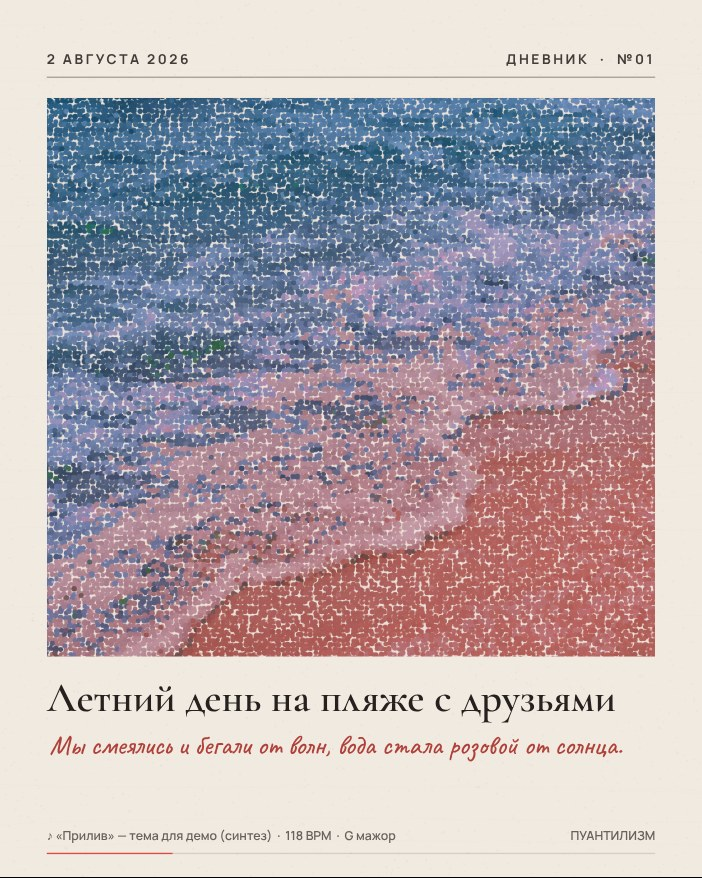
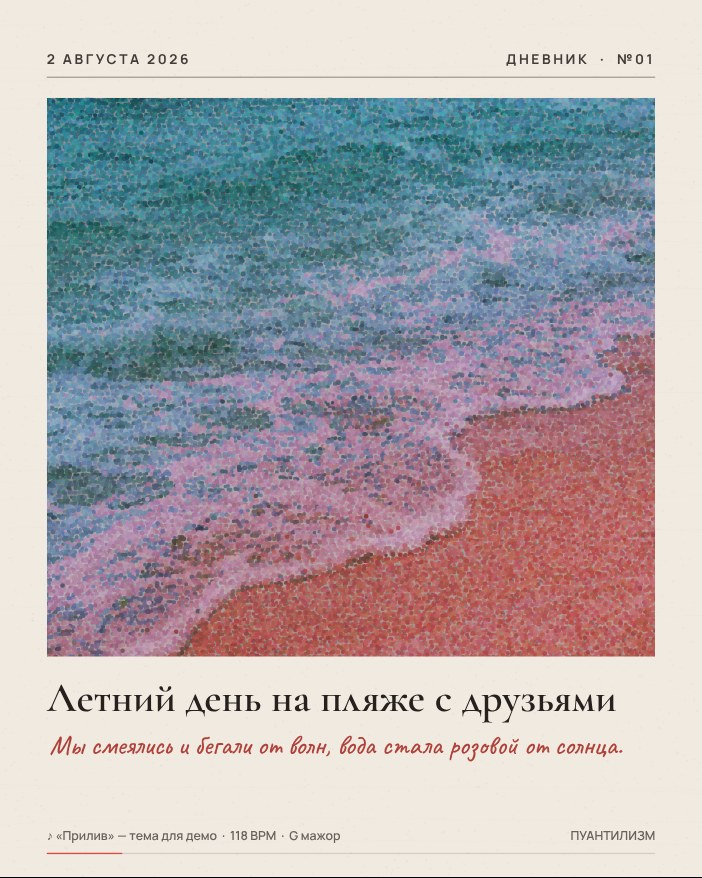
Sharpen titles, cuts and the pointillism and ink pages
A walkthrough with eight realistic days, real photos and the benchmark
songs found weak titles, slow cuts on lively days and a sad ballad painted
as tense geometry. Titles now know occasions (birthday, exam, wedding,
Nauryz, New Year) and local places (aul, dorm, Astana, Almaty, Medeu). A
lively song gets more, shorter shots instead of stretched frames. A fast
drumless run of notes is heard at half tempo (benchmark tempo now 12/12).
More mood words cover praise, alarm and apathy; «волновался» no longer
matches «волны».

Pointillism paints dense vivid dots over a softened colour ground with
complementary dots instead of paper-white flecks. The ink page keeps the
photo's full tonal range with one accent colour in its brightest lights.

Claude-Session: https://claude.ai/code/session_01J6PoPXYJBp2oGjgBzd2Ubg

diff --git a/src/text.js b/src/text.js
@@ -5,6 +5,8 @@ const RU = /\p{Script=Cyrillic}/u;
 
 // [stem, valence -2..2, arousal -2..2, nostalgia 0..2]
 const LEXICON = [
+  // Listed first so they win over shorter stems: «волновался» is nerves, not «волны».
+  ['волнова', -0.3, 1.2], ['волнуюсь', -0.3, 1.2],
   // calm & warm
   ['тепл', 1, -0.4], ['тёпл', 1, -0.4], ['уют', 1.5, -1.2], ['тих', 0.3, -1.6], ['тиш', 0.3, -1.6], ['спокой', 1, -1.6],
   ['мягк', 0.8, -1], ['нежн', 1.2, -0.8], ['обня', 1.5, -0.2], ['любл', 1.5, 0.2], ['любов', 1.5, 0.2], ['какао', 0.9, -0.9],
@@ -31,6 +33,12 @@ const LEXICON = [
   ['когда-то', 0, -0.4, 1.5], ['давно', 0, -0.3, 0.9], ['бабушк', 0.8, -0.6, 1.2], ['дедушк', 0.8, -0.6, 1.2], ['старый', 0, -0.4, 1],
   ['старая', 0, -0.4, 1], ['школ', 0.2, 0.2, 1], ['альбом', 0.3, -0.5, 1.4], ['пластинк', 0.5, -0.4, 1.5], ['кассет', 0.4, -0.2, 1.6],
   ['как раньше', 0, -0.2, 1.4], ['впервые', 0.8, 0.4, 0.6], ['уже не', -0.6, -0.4, 1],
+  // everyday praise and alarm
+  ['лучш', 1.3, 0.4], ['прекрасн', 1.4, 0.2], ['классн', 1.1, 0.5], ['кайф', 1.3, 0.4], ['круто', 1.2, 0.8], ['сюрприз', 1.2, 1],
+  ['торт', 0.8, 0.3], ['обожа', 1.4, 0.3], ['восхит', 1.6, 0.8], ['счастлив', 1.8, 0.8], ['гордост', 1.3, 0.6], ['горд', 1.2, 0.5],
+  ['страшн', -1.3, 1.2], ['страх', -1.3, 1.2], ['ужас', -1.5, 1], ['плохо', -1.2, 0], ['больно', -1.4, 0.5], ['тревог', -1.2, 1],
+  ['обид', -1.3, 0.3], ['бесит', -1.4, 1.3], ['лень', -0.3, -0.8], ['апати', -1.2, -1.2], ['лежал', 0, -0.8], ['потерял', -1.1, 0.3],
+  ['ничего не хотел', -1, -1.2], ['не хотелось', -0.8, -1],
   // English
   ['warm', 1, -0.4], ['cozy', 1.5, -1.2], ['quiet', 0.3, -1.6], ['calm', 1, -1.6], ['soft', 0.8, -1], ['gentle', 1, -1],
   ['love', 1.5, 0.2], ['cocoa', 0.9, -0.9], ['coffee', 0.5, -0.3], ['tea', 0.6, -0.8], ['talk', 0.6, -0.4], ['smil', 1.2, 0.3],
@@ -44,6 +52,9 @@ const LEXICON = [
   ['mist', -0.2, -1.1], ['fog', -0.2, -1.1], ['last', -0.6, -0.2], ['dark', -0.4, -0.3],
   ['remember', 0, -0.3, 1.2], ['childhood', 0.6, -0.2, 1.8], ['again', 0.2, 0, 0.8], ['grandma', 0.8, -0.6, 1.2], ['grandpa', 0.8, -0.6, 1.2],
   ['old', 0, -0.4, 0.9], ['vinyl', 0.5, -0.4, 1.5], ['used to', 0, -0.4, 1.4],
+  ['best', 1.5, 0.5], ['amazing', 1.6, 0.9], ['awesome', 1.5, 0.9], ['wonderful', 1.5, 0.3], ['great', 1.2, 0.4], ['excit', 1.4, 1.2],
+  ['scream', -0.2, 1.4], ['cheer', 1.3, 1], ['scared', -1.3, 1.1], ['anxious', -1.2, 1], ['worried', -1.1, 0.8], ['bored', -0.9, -0.8],
+  ['peaceful', 1.2, -1.4], ['relax', 1.1, -1.2], ['exhausted', -1, -0.6], ['proud', 1.3, 0.6], ['lost', -1, 0.2],
 ];
 
 const SEASONS = [
@@ -62,6 +73,12 @@ const TIMES = [
 
 // stem → [Russian phrase, English phrase]
 const PLACES = [
+  [/^аул/, 'в ауле', 'in the village'], [/^(общаг|общежит)/, 'в общаге', 'at the dorm'], [/^(универ|университет)/, 'в университете', 'at university'],
+  [/^больниц/, 'в больнице', 'at the hospital'], [/^аэропорт/, 'в аэропорту', 'at the airport'], [/^(машин|авто)$|^машине/, 'в машине', 'in the car'],
+  [/^(кинотеатр|кино)$/, 'в кино', 'at the cinema'], [/^музе[ейю]/, 'в музее', 'at the museum'], [/^библиотек/, 'в библиотеке', 'in the library'],
+  [/^стадион/, 'на стадионе', 'at the stadium'], [/^концерт/, 'на концерте', 'at the concert'], [/^(медеу|шымбулак)/, 'на Медеу', 'at Medeu'],
+  [/^астан/, 'в Астане', 'in Astana'], [/^алмат/, 'в Алматы', 'in Almaty'], [/^шымкент/, 'в Шымкенте', 'in Shymkent'],
+  [/^(dorm)/, 'в общаге', 'at the dorm'], [/^(hospital)/, 'в больнице', 'at the hospital'], [/^(airport)/, 'в аэропорту', 'at the airport'],
   [/^парк/, 'в парке', 'in the park'], [/^(мор|моря)/, 'у моря', 'by the sea'], [/^пляж/, 'на пляже', 'on the beach'],
   [/^берег/, 'на берегу', 'on the shore'], [/^офис/, 'в офисе', 'at the office'], [/^поезд/, 'в поезде', 'on the train'],
   [/^(перрон|вокзал|платформ)/, 'на перроне', 'on the platform'], [/^автобус/, 'в автобусе', 'on the bus'],
@@ -89,6 +106,7 @@ const PEOPLE = [
 ];
 
 const DETAILS = [
+  [/^(экзамен|сесси|зачет)/, 'перед экзаменом', 'before the exam'], [/^exam/, 'перед экзаменом', 'before the exam'],
   [/^какао/, 'и какао', 'and cocoa'], [/^коф/, 'и кофе', 'and coffee'], [/^ча[йя]$|^чаем$/, 'и чай', 'and tea'],
   [/^дожд/, 'под дождём', 'in the rain'], [/^(снег|снеж)/, 'под снегом', 'in the snow'], [/^(дедлайн|сдач)/, 'перед сдачей', 'before the deadline'],
   [/^туман/, 'в тумане', 'in the mist'], [/^(закат)/, 'на закате', 'at sunset'], [/^(звёзд|звезд)/, 'под звёздами', 'under the stars'],
@@ -96,6 +114,14 @@ const DETAILS = [
   [/^cocoa/, 'и какао', 'and cocoa'], [/^coffee/, 'и кофе', 'and coffee'], [/^tea$/, 'и чай', 'and tea'], [/^rain/, 'под дождём', 'in the rain'],
   [/^snow/, 'под снегом', 'in the snow'], [/^deadline/, 'перед сдачей', 'before the deadline'], [/^(mist|fog)/, 'в тумане', 'in the mist'],
   [/^sunset/, 'на закате', 'at sunset'], [/^neon/, 'в неоне', 'in neon'],
+];
+
+// Named occasions lead the title instead of the time of day: «День рождения с друзьями».
+const EVENTS = [
+  [/^рождени/, 'День рождения', 'Birthday'], [/^исполнилось$/, 'День рождения', 'Birthday'], [/^(днюх|днюшк)/, 'День рождения', 'Birthday'], [/^birthday/, 'День рождения', 'Birthday'],
+  [/^свадьб/, 'Свадьба', 'Wedding'], [/^wedding/, 'Свадьба', 'Wedding'], [/^выпускн/, 'Выпускной', 'Graduation'], [/^graduation/, 'Выпускной', 'Graduation'],
+  [/^наурыз/, 'Наурыз', 'Nauryz'], [/^nauryz/, 'Наурыз', 'Nauryz'], [/^новогод/, 'Новогодняя ночь', 'New Year’s Eve'], [/^свидани/, 'Свидание', 'A date'],
+  [/^поход/, 'Поход', 'Hike'], [/^hik(e|ing)/, 'Поход', 'Hike'], [/^рыбалк/, 'Рыбалка', 'Fishing'], [/^переезд/, 'Переезд', 'Moving day'],
 ];
 
 const HEAD = {
@@ -179,6 +205,7 @@ export function readText(text, date) {
     place: firstMatch(tokens, PLACES),
     people: firstMatch(tokens, PEOPLE),
     detail: firstMatch(tokens, DETAILS),
+    event: /новый год/.test(lower) ? [null, 'Новый год', 'New Year'] : /new year/.test(lower) ? [null, 'Новый год', 'New Year'] : firstMatch(tokens, EVENTS),
     hits: [...new Set(hits.sort((a, b) => Math.abs(b.valence) + Math.abs(b.arousal) - Math.abs(a.valence) - Math.abs(a.arousal)).map((hit) => hit.word))].slice(0, 6),
     sentences: sentences(text),
     words: tokens.length,
@@ -196,12 +223,13 @@ function fallbackTitle(reading, lang) {
   return lang === 'ru' ? 'День, который хочется помнить' : 'A day worth remembering';
 }
 
-// Titles follow one pattern: [season] time-of-day + place + company + detail, 3–7 words.
+// Titles follow one pattern: occasion or [season] time-of-day, then place, company and a detail; 3–7 words.
 export function titleFor(reading) {
   const ru = reading.lang === 'ru';
   const pieces = [];
   const time = reading.time ?? (reading.place || reading.people ? 'day' : null);
-  if (time) {
+  if (reading.event) pieces.push(ru ? reading.event[1] : reading.event[2]);
+  else if (time) {
     if (ru) {
       const [noun, gender] = HEAD.ru[time];
       pieces.push(reading.seasonFromText ? `${SEASON_ADJ[reading.season][gender]} ${noun.toLowerCase()}` : noun);

diff --git a/src/render.js b/src/render.js
@@ -1,4 +1,5 @@
 // Paints a diary page on a 1080×1350 canvas. Constant frame + a technique chosen by the rules.
+import { hslToRgb, rgbToHsl } from './photo.js';
 import { TECHNIQUES } from './system.js';
 
 export const PAGE = { width: 1080, height: 1350, margin: 72 };
@@ -139,33 +140,35 @@ function monetPlate(image, w, h, design, random) {
   return { plate, light };
 }
 
+// Pointillism the way Seurat built it: a softened colour ground, then dense dots of vivid colour, with small
+// dots of the complementary hue mixed in so the eye blends them into a shimmer.
 function seuratPlate(image, w, h, design, random) {
   const plate = canvas(w, h);
   const ctx = plate.getContext('2d');
   const s = sampler(image, w / 4, h / 4);
-  ctx.fillStyle = rgb(mix(PAPER, design.palette[0], 0.12));
+  ctx.filter = 'blur(14px) saturate(0.8) brightness(1.08)';
+  ctx.drawImage(s.canvas, -24, -24, w + 48, h + 48);
+  ctx.filter = 'none';
+  ctx.fillStyle = rgb(mix(PAPER, design.palette[0], 0.25), 0.35);
   ctx.fillRect(0, 0, w, h);
   const r = design.texture.dot;
-  const step = r * 1.55;
+  const step = r * 1.3;
   const dots = [];
-  for (let y = 0; y < h; y += step) {
-    for (let x = (y / step) % 2 ? step / 2 : 0; x < w; x += step) {
-      const edge = Math.min(x, y, w - x, h - y) / 60;
-      if (edge < 1 && random() > edge) continue;
-      const px = x + (random() - 0.5) * step * 0.6;
-      const py = y + (random() - 0.5) * step * 0.6;
-      const color = toPalette(design.palette, s.at(px / 4, py / 4), 0.3);
-      const [cr, cg, cb] = color;
-      const max = Math.max(cr, cg, cb);
-      const vivid = color.map((v) => clamp(Math.round(v + (v === max ? 16 : -8)), 0, 255));
-      ctx.fillStyle = rgb(vivid);
+  for (let y = 0; y < h + step; y += step) {
+    for (let x = (Math.round(y / step) % 2) ? step / 2 : 0; x < w + step; x += step) {
+      const px = x + (random() - 0.5) * step * 0.7;
+      const py = y + (random() - 0.5) * step * 0.7;
+      const base = toPalette(design.palette, s.at(px / 4, py / 4), 0.25);
+      const [hue, sat, light] = rgbToHsl(base);
+      const vivid = hslToRgb([hue + (random() - 0.5) * 18, clamp(sat * 1.25 + 0.12, 0, 0.95), clamp(light + (random() - 0.5) * 0.12, 0.08, 0.92)]);
+      ctx.fillStyle = rgb(vivid, 0.92);
       ctx.beginPath();
-      ctx.arc(px, py, r * (0.75 + random() * 0.35), 0, Math.PI * 2);
+      ctx.arc(px, py, r * (0.62 + random() * 0.3), 0, Math.PI * 2);
       ctx.fill();
-      if (random() < 0.22) {
-        ctx.fillStyle = rgb(mix(vivid, [255, 244, 220], 0.55), 0.85);
+      if (random() < 0.16) {
+        ctx.fillStyle = rgb(hslToRgb([hue + 180, clamp(sat * 0.9 + 0.2, 0, 0.8), clamp(light, 0.25, 0.75)]), 0.6);
         ctx.beginPath();
-        ctx.arc(px + r * 0.7, py - r * 0.5, r * 0.4, 0, Math.PI * 2);
+        ctx.arc(px + r * 0.55, py - r * 0.45, r * 0.34, 0, Math.PI * 2);
         ctx.fill();
       }
       if (random() < 0.06) dots.push({ x: px, y: py, color: vivid, phase: Math.floor(random() * 4) });
@@ -202,22 +205,37 @@ function kandinskyPlate(image, w, h, design, random) {
   return { plate, shapes };
 }
 
+// Sumi-e: the photo becomes ink on paper with its full tonal range, and only its brightest coloured lights
+// keep a single colour — the day's accent — the way ink painting allows one touch of colour.
 function maPlate(image, w, h, design) {
   const plate = canvas(w, h);
   const ctx = plate.getContext('2d', { willReadFrequently: true });
   coverDraw(ctx, image, w, h);
   const pixels = ctx.getImageData(0, 0, w, h);
-  const tint = design.palette[0];
-  const ink = [34, 34, 38];
-  const paper = mix(PAPER, tint, 0.06);
+  const data = pixels.data;
+  const lumas = new Float32Array(w * h);
+  for (let i = 0; i < lumas.length; i++) lumas[i] = (0.2126 * data[i * 4] + 0.7152 * data[i * 4 + 1] + 0.0722 * data[i * 4 + 2]) / 255;
+  const sorted = Float32Array.from(lumas).sort();
+  const low = sorted[Math.floor(sorted.length * 0.04)];
+  const high = sorted[Math.floor(sorted.length * 0.97)];
+  const span = Math.max(0.05, high - low);
+  const ink = [30, 30, 34];
+  const paper = mix(PAPER, design.palette[0], 0.05);
+  const wash = mix(ink, paper, 0.62);
+  const accent = design.accent;
   for (let y = 0; y < h; y++) {
     for (let x = 0; x < w; x++) {
-      const i = (y * w + x) * 4;
-      const l = (0.2126 * pixels.data[i] + 0.7152 * pixels.data[i + 1] + 0.0722 * pixels.data[i + 2]) / 255;
-      const wash = clamp(l * 1.7 + 0.18, 0, 1) ** 0.55;
-      const edge = clamp(Math.min(x, y, w - x, h - y) / (Math.min(w, h) * 0.16), 0, 1);
-      const tone = mix(mix(ink, mix(tint, paper, 0.55), wash), paper, (1 - edge) ** 1.6);
-      pixels.data[i] = tone[0]; pixels.data[i + 1] = tone[1]; pixels.data[i + 2] = tone[2];
+      const index = y * w + x;
+      const i = index * 4;
+      const tone = clamp((lumas[index] - low) / span, 0, 1);
+      // Three ink densities, softly blended: deep ink, grey wash, bare paper.
+      let color = tone < 0.5 ? mix(ink, wash, (tone / 0.5) ** 0.9) : mix(wash, paper, ((tone - 0.5) / 0.5) ** 0.7);
+      const [, saturation] = rgbToHsl([data[i], data[i + 1], data[i + 2]]);
+      const glow = clamp((tone - 0.78) / 0.22, 0, 1) * clamp((saturation - 0.18) / 0.4, 0, 1);
+      if (glow > 0) color = mix(color, accent, glow * 0.75);
+      const edge = clamp(Math.min(x, y, w - x, h - y) / (Math.min(w, h) * 0.14), 0, 1);
+      color = mix(color, paper, (1 - edge) ** 1.8);
+      data[i] = color[0]; data[i + 1] = color[1]; data[i + 2] = color[2];
     }
   }
   ctx.putImageData(pixels, 0, 0);

diff --git a/src/system.js b/src/system.js
@@ -113,12 +113,14 @@ export function composeDay({ text, date, reading, photo, music, photoCount }) {
   const lines = reading.sentences.length > 1 && reading.sentences[0].split(/\s+/).length <= 8 ? reading.sentences.slice(1) : reading.sentences;
   const captions = (lines.length ? lines : [text.trim()]).slice(0, 6)
     .map((line) => (Array.from(line).length > 110 ? `${Array.from(line).slice(0, 108).join('').trimEnd()}…` : line));
-  const scenes = Math.max(3, photoCount, captions.length);
-  // Frames last a whole number of beats: the nearest phrase length that keeps a frame within 2.2–9 s
-  // and the page within 15–45 s. Only songs with no beat at all fall back to plain clamping.
-  const fits = (beats) => beats * beat >= 2.2 && beats * beat <= 9 && scenes * beats * beat >= 15 && scenes * beats * beat <= 45;
+  const minimumScenes = Math.max(3, photoCount, captions.length);
+  // Frames last a whole number of beats: the phrase length nearest to the mood's, 2.2–9 s per frame, with
+  // every photo and line fitting into 45 s. A lively song then gets more, shorter shots rather than
+  // stretched frames: photos return with new crops until the page lasts at least 15 s.
+  const fits = (beats) => beats * beat >= 2.2 && beats * beat <= 9 && minimumScenes * beats * beat <= 45;
   const phrase = [2, 4, 6, 8, 12, 16, 24, 32].filter(fits).sort((a, b) => Math.abs(a - beatsPerScene) - Math.abs(b - beatsPerScene))[0];
-  const sceneSeconds = phrase ? phrase * beat : clamp(clamp(beatsPerScene * beat, 2.2, 9), 15 / scenes, 45 / scenes);
+  const sceneSeconds = phrase ? phrase * beat : clamp(clamp(beatsPerScene * beat, 2.2, 9), 0, 45 / minimumScenes);
+  const scenes = Math.max(minimumScenes, Math.min(Math.ceil(15 / sceneSeconds), Math.floor(45 / sceneSeconds)));
   const transition = technique === 'kandinsky' ? 90 : Math.round(lerp(1900, 260, (mood.arousal + 1) / 2));
   const energy = music.energy;
   const design = {
@@ -154,6 +156,7 @@ export function composeDay({ text, date, reading, photo, music, photoCount }) {
 }
 
 const pct = (value) => `${Math.round(value * 100)}%`;
+const beatsLabel = (n) => `${n} ${n % 10 === 1 && n % 100 !== 11 ? 'доля' : n % 10 >= 2 && n % 10 <= 4 && (n % 100 < 12 || n % 100 > 14) ? 'доли' : 'долей'}`;
 const hex = (rgb) => `#${rgb.map((v) => v.toString(16).padStart(2, '0')).join('').toUpperCase()}`;
 
 function explain({ reading, photo, music, design }) {
@@ -185,7 +188,7 @@ function explain({ reading, photo, music, design }) {
         music.genre ? GENRES[music.genre].label.toLowerCase() : null,
         music.year ? `${music.year} г.` : null,
       ].filter(Boolean).join(' · '),
-      effect: `${tempo[0].toUpperCase() + tempo.slice(1)} ритм: ${rhythm.sceneSeconds} с на кадр (${rhythm.beatsPerScene} долей), ${rhythm.transition < 200 ? 'резкая склейка' : `растворение ${rhythm.transition} мс`}${music.mode === 'minor' ? ', приглушённый цвет' : music.mode === 'major' ? ', открытый свет' : ''}`,
+      effect: `${tempo[0].toUpperCase() + tempo.slice(1)} ритм: ${rhythm.sceneSeconds} с на кадр${music.bpm ? ` (${beatsLabel(rhythm.beatsPerScene)})` : ', без привязки к долям'}, ${rhythm.transition < 200 ? 'резкая склейка' : `растворение ${rhythm.transition} мс`}${music.mode === 'minor' ? ', приглушённый цвет' : music.mode === 'major' ? ', открытый свет' : ''}`,
     },
     {
       input: 'Приём',

diff --git a/src/music.js b/src/music.js
@@ -193,6 +193,8 @@ export function analyseFrames(samples, sampleRate) {
   const im = new Float64Array(size);
   const window = Float64Array.from({ length: size }, (_, i) => 0.5 - 0.5 * Math.cos(2 * Math.PI * i / (size - 1)));
   let previous = new Float64Array(size / 2);
+  let highRise = 0;
+  let lowRise = 0;
   const flux = [];
   let rmsSum = 0;
   let centroidSum = 0;
@@ -216,7 +218,10 @@ export function analyseFrames(samples, sampleRate) {
     for (let bin = 1; bin < size / 2; bin++) {
       const value = Math.log1p(100 * gain * Math.hypot(re[bin], im[bin]));
       magnitude[bin] = value;
-      rise += Math.max(0, value - previous[bin]);
+      const step = Math.max(0, value - previous[bin]);
+      rise += step;
+      if (bin * binHz > 5000) highRise += step;
+      else if (bin * binHz < 150) lowRise += step;
       weighted += value * bin * binHz;
       sum += value;
     }
@@ -224,17 +229,27 @@ export function analyseFrames(samples, sampleRate) {
     flux.push(rise);
     previous = magnitude;
   }
-  return { flux, framesPerSecond: sampleRate / hop, rms: rmsSum / frames, centroid: centroidWeight ? centroidSum / centroidWeight : 0 };
+  const totalRise = flux.reduce((total, value) => total + value, 0);
+  return {
+    flux, framesPerSecond: sampleRate / hop, rms: rmsSum / frames, centroid: centroidWeight ? centroidSum / centroidWeight : 0,
+    // Share of onset strength above 5 kHz: hats, snares and cymbals put most of their attack there.
+    percussion: totalRise ? highRise / totalRise : 0,
+    kick: totalRise ? lowRise / totalRise : 0,
+  };
 }
 
 export function measureMusic(samples, sampleRate) {
   const frames = analyseFrames(samples, sampleRate);
   if (!frames) return { bpm: null, energy: 0, mode: null, key: null, keyConfidence: 0, brightness: 0 };
-  const { flux, framesPerSecond, rms, centroid } = frames;
+  const { flux, framesPerSecond, rms, centroid, percussion, kick } = frames;
   const onsetStrength = flux.reduce((total, value) => total + value, 0) / flux.length;
   const brightness = clamp((centroid - 900) / 2600, 0, 1);
   // A steady tone has almost no onsets (songs in the test set average 110–340 on this scale): no tempo.
-  const bpm = rms < 0.002 || onsetStrength < 12 ? null : estimateTempo(flux, framesPerSecond).bpm;
+  let bpm = rms < 0.002 || onsetStrength < 12 ? null : estimateTempo(flux, framesPerSecond).bpm;
+  // Heuristic: without drums, a fast even run of notes is heard at half speed (arpeggios at 136 feel like a
+  // 68 ballad). Drum songs in the test set reach 0.48–0.57 high-band onset share, drumless arpeggios
+  // 0.42–0.45; a bare kick pattern (low-band share above 0.08) keeps its tempo.
+  if (bpm > 120 && percussion < 0.47 && kick < 0.08) bpm = Math.round(bpm / 2);
   // Felt intensity: how densely and sharply notes and hits land (gain-normalized onset strength, r = 0.84
   // with hand-rated intensity of 18 test songs), plus a little tempo. Loudness is left out on purpose:
   // streamed and downloaded songs are all mastered loud, ballads included.

diff --git a/test/text.test.js b/test/text.test.js
@@ -51,3 +51,20 @@ test('an entry without letters is treated as Russian, and mood words are listed 
   assert.equal(title('🌧'), 'День, который хочется помнить');
   assert.deepEqual(readText('Смеялись, смеялись и смеялись!').hits, ['смеялись']);
 });
+
+test('occasions and local places lead the title', () => {
+  assert.equal(title('Сегодня мне исполнилось двадцать! Друзья устроили сюрприз, танцевали до ночи.'), 'День рождения с друзьями');
+  assert.equal(title('Сессия. Ночь перед экзаменом, сижу в общаге с конспектами. Паника.'), 'Ночь в общаге перед экзаменом');
+  assert.equal(title('Приехала к бабушке в аул, пахло баурсаками.'), 'День в ауле с бабушкой');
+  assert.equal(title('Первый снег в Астане, шла одна домой.'), 'Зимний день в Астане под снегом');
+  assert.equal(title('Встречали Новый год с друзьями на даче.'), 'Новый год на даче с друзьями');
+});
+
+test('apathy and nerves read as what they are', () => {
+  const apathy = readText('Долго лежала и смотрела в потолок. Ничего не хотелось.');
+  assert.ok(apathy.valence < 0 && apathy.arousal < 0);
+  const nerves = readText('Первое свидание, очень волновался.');
+  assert.ok(nerves.arousal > 0);
+  assert.ok(!nerves.hits.includes('волн'));
+  assert.ok(readText('Best morning ever!').valence > 0.3);
+});

diff --git a/test/system.test.js b/test/system.test.js
@@ -79,3 +79,11 @@ test('on a borderline day the song alone can move the page into another techniqu
   assert.notEqual(slow.technique, fast.technique);
   assert.equal(fast.technique, 'kandinsky');
 });
+
+test('a lively song cuts quickly: more, shorter shots instead of stretched frames', () => {
+  const lively = day('Весь день танцевали с друзьями, смеялись!', music('fast', 'intense', 'major')).design.rhythm;
+  const quiet = day(calm, music('slow', 'soft', 'major')).design.rhythm;
+  assert.ok(lively.sceneSeconds < 3.5, `${lively.sceneSeconds}s`);
+  assert.ok(lively.scenes > quiet.scenes);
+  assert.ok(lively.seconds >= 15 && lively.seconds <= 45);
+});

diff --git a/README.md b/README.md
@@ -20,7 +20,7 @@ npm run dev
 Статическая сборка работает из любой подпапки и без интернета: шрифты, примеры и библиотеки входят в неё.
 
 ```bash
-npm test          # 26 модульных тестов: текст, музыка, правила, папка дня
+npm test          # 29 модульных тестов: текст, музыка, правила, папка дня
 npm run build     # сборка в dist/
 npm run preview   # http://localhost:4173
 ```
@@ -44,7 +44,7 @@ python3 scripts/benchmark/make-songs.py /tmp/songs
 node scripts/benchmark/bench-music.mjs /tmp/songs
 ```
 
-Двенадцать сочинённых песен с известными темпом и тональностью проходят через анализатор приложения. Сейчас: темп 11/12, мажор/минор 12/12, тональность 10/12.
+Двенадцать сочинённых песен с известными темпом и тональностью проходят через анализатор приложения. Сейчас: темп 12/12, мажор/минор 12/12, тональность 10/12.
 
 ## Что лежит в папке дня
 
